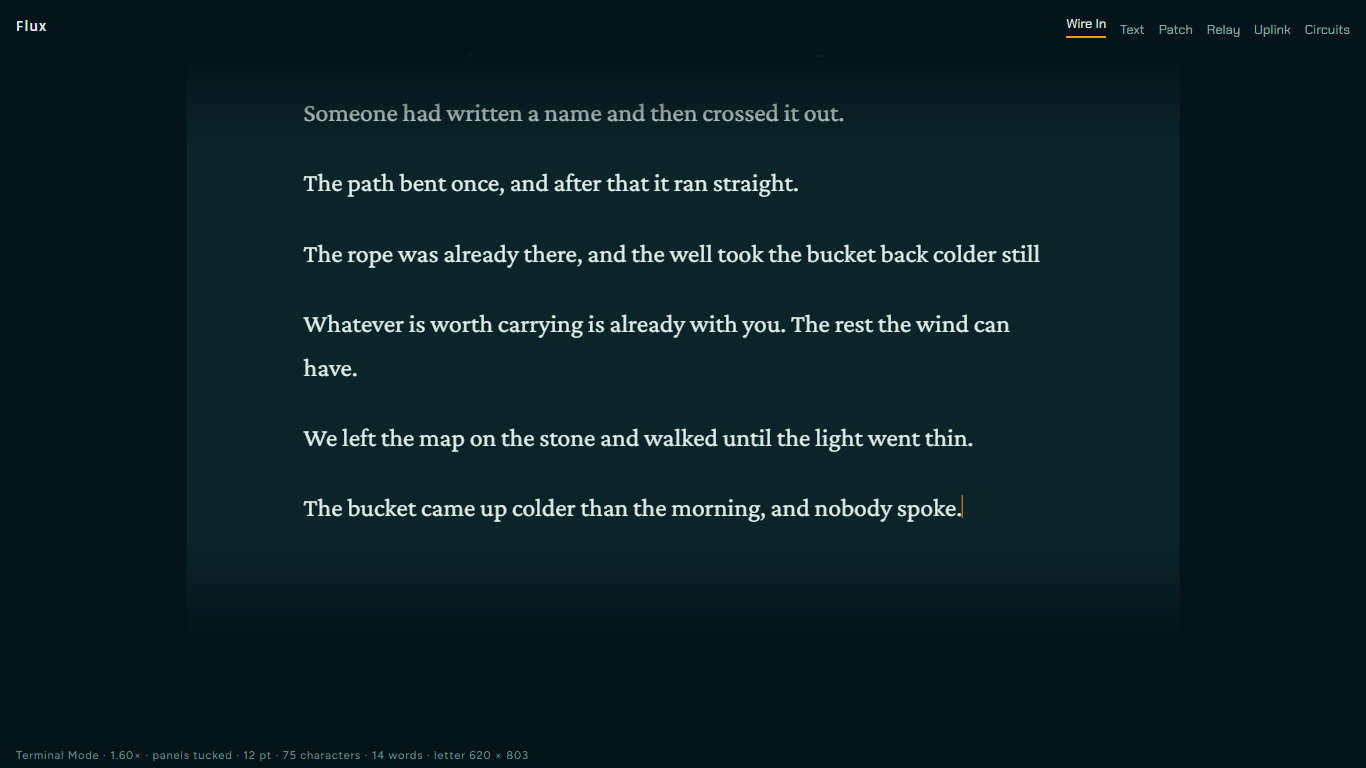
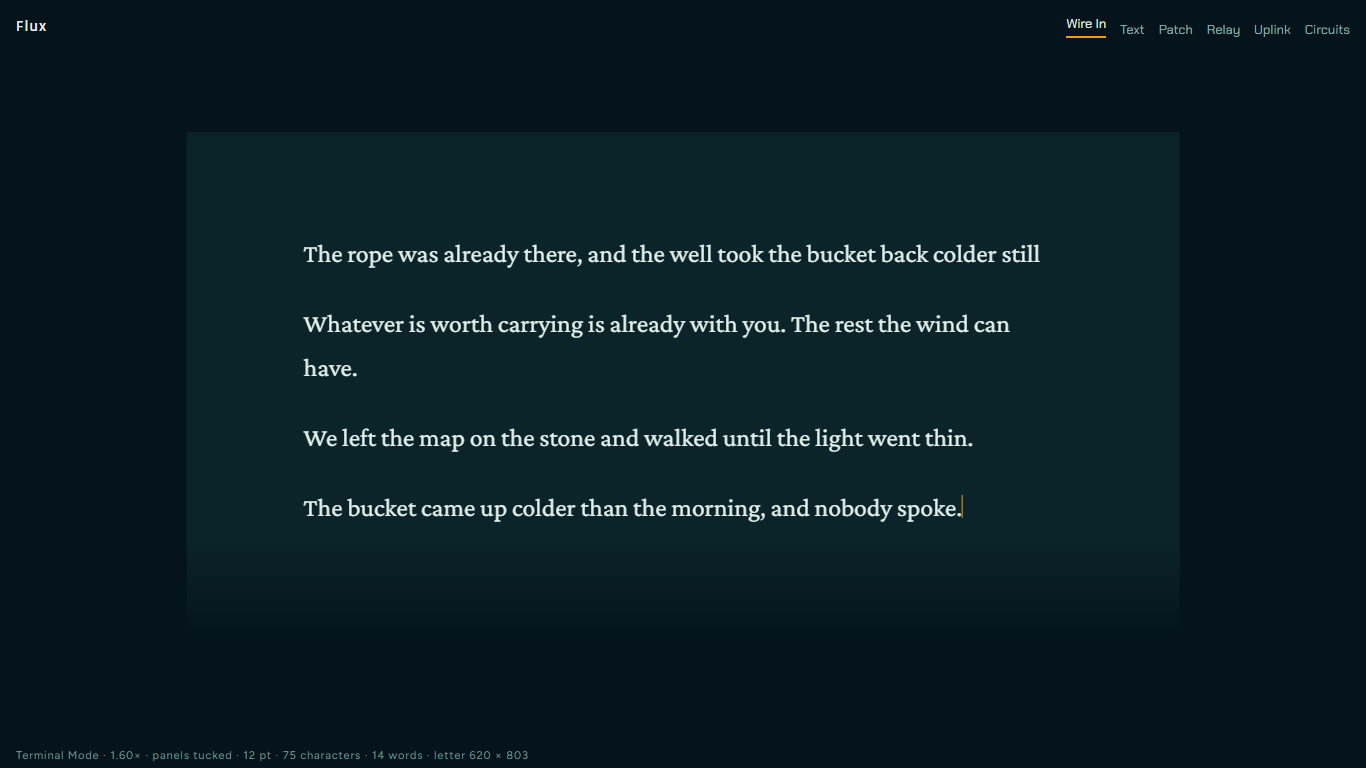
Match Typewriter text to the locked letter page.
EOF

Changed region(s): [[0.2152, 0.125, 0.6149, 0.1562], [0.2152, 0.2188, 0.5842, 0.25]]

diff --git a/docs/mockups/page-size/index.html b/docs/mockups/page-size/index.html
@@ -115,16 +115,11 @@
     var page = document.getElementById('page');
     var padX = (pageW - textW) / 2;
     var paras = [
-      'Morning took the heat out of the stones before we started.',
-      'We counted the jars and found one of them missing.',
-      'Someone had written a name and then crossed it out.',
-      'The path bent once, and after that it ran straight.',
       LINE,
       'Whatever is worth carrying is already with you. The rest the wind can have.',
       'We left the map on the stone and walked until the light went thin.',
       'The bucket came up colder than the morning, and nobody spoke.'
     ];
-    if (view !== 'typewriter') paras = [LINE, paras[5], paras[6], paras[7]];
     var caret = '<span class="caret"></span>';
     var html = paras.map(function (p, i) {
       return '<p>' + p + (i === paras.length - 1 && root.dataset.glide !== 'mid' ? caret : '') + '</p>';
